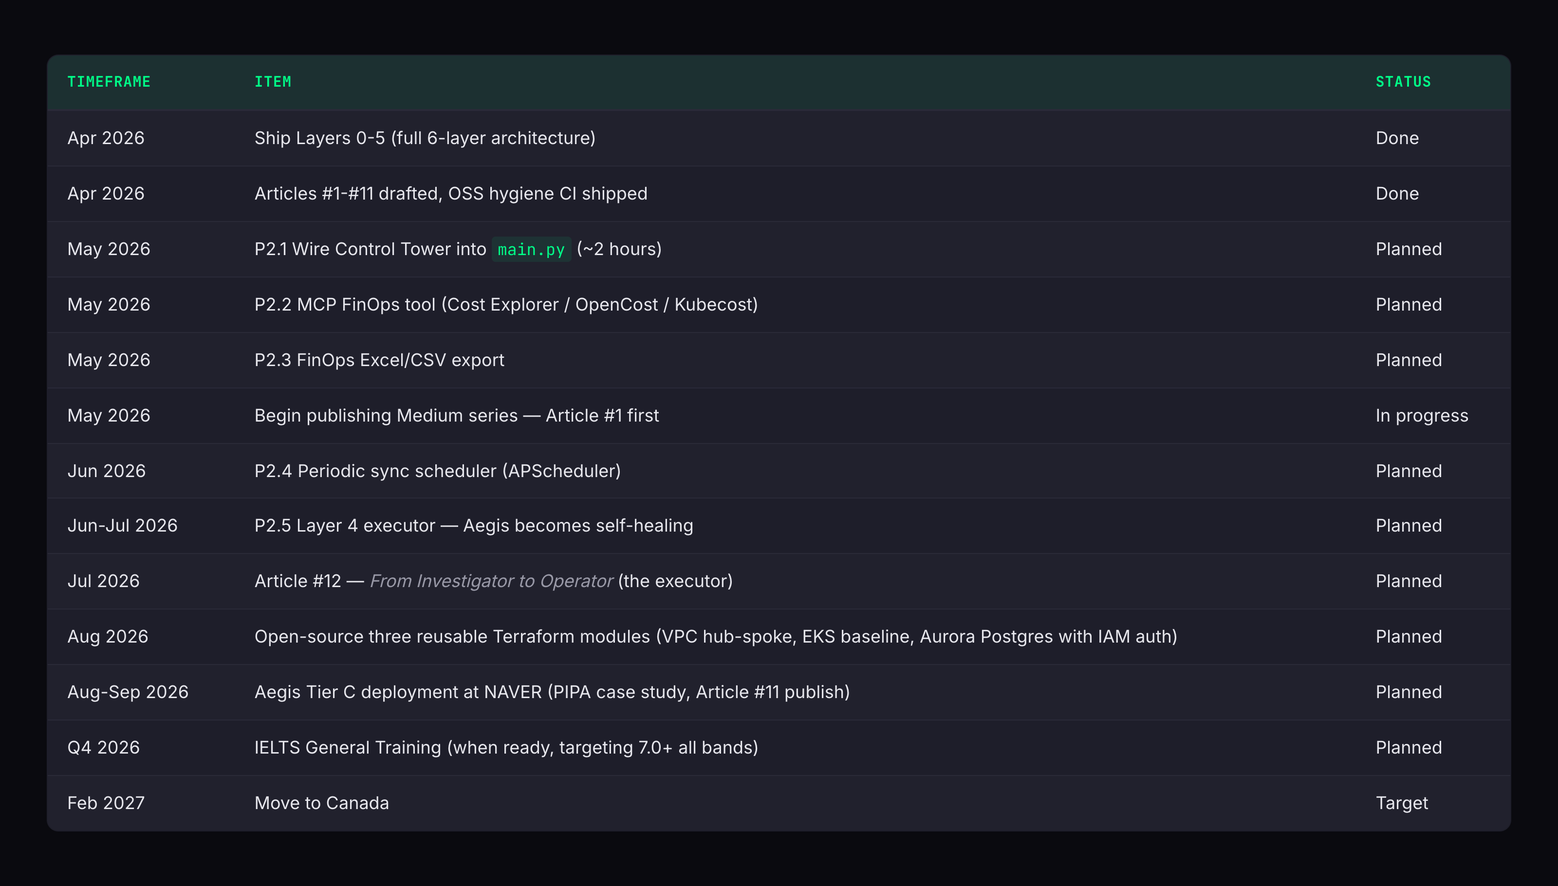
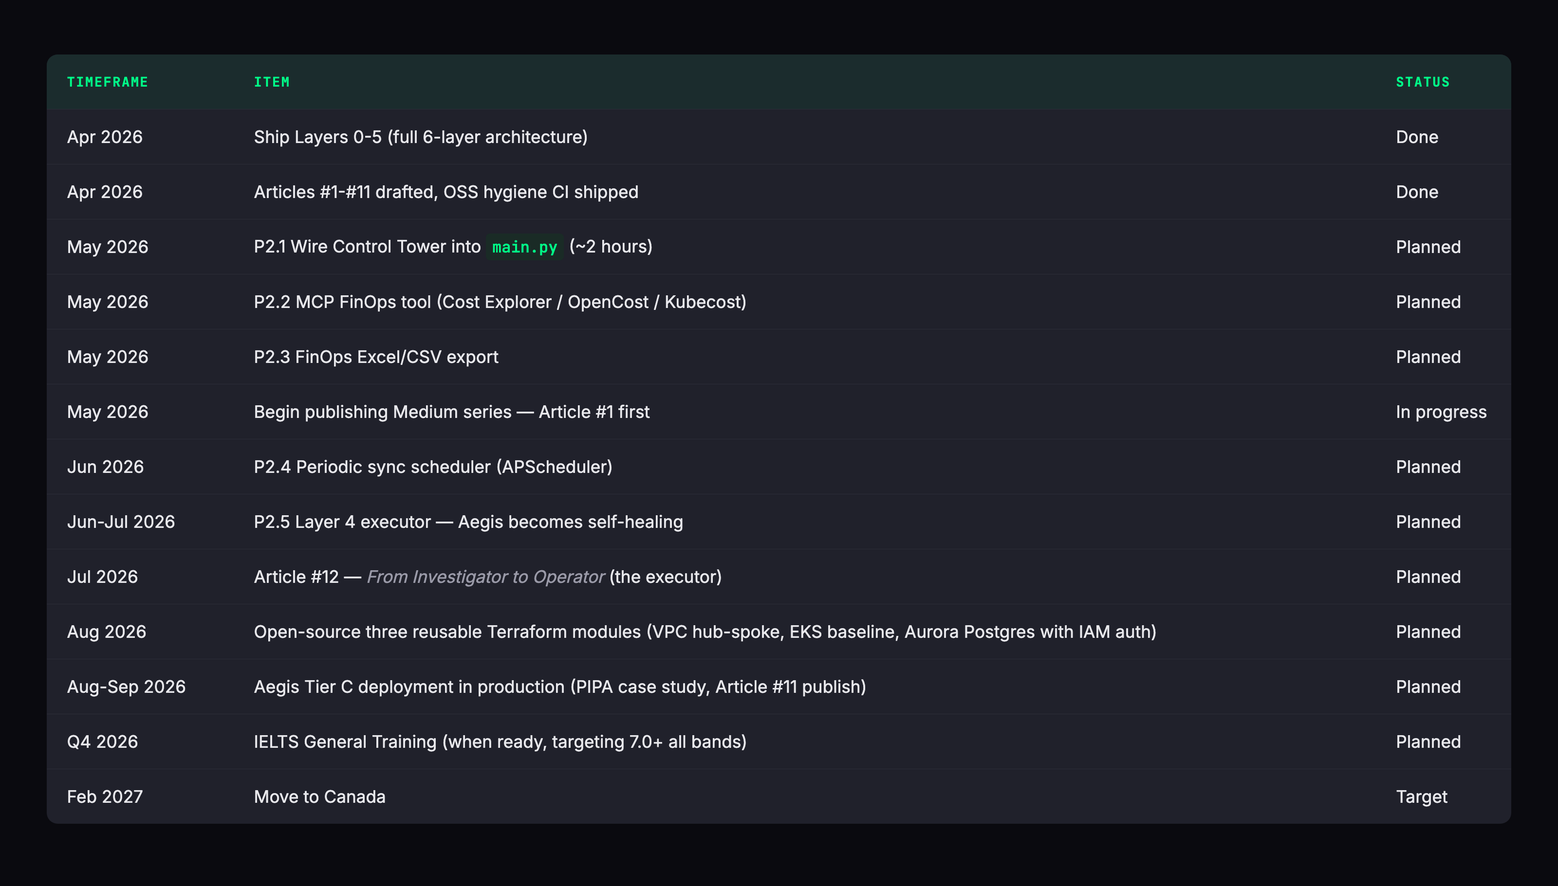
docs: remove employer identifiers and real account IDs from articles and docs (#5)

diff --git a/articles/08-open-sourcing-capstone/article.html b/articles/08-open-sourcing-capstone/article.html
@@ -247,7 +247,7 @@
 
 <p>The other seven articles in this series are technical. This one is not.</p>
 
-<p>I'm an SRE at acme-corp, a subsidiary of a large tech company, working out of Seoul. Before acme-corp I spent three years at a large e-commerce company on cloud platforms and SRE. Before that, acme-it IT&amp;E on platform and cloud. Before that, acme-retail Shopping on backend and cloud. I studied computer and information systems security at Tongmyong University, spent three years in the Republic of Korea military, and finished a second B.Eng in computer science at Kumoh National Institute.</p>
+<p>I'm an SRE working out of Seoul. Before my current job I spent three years on cloud platforms and SRE at a large e-commerce company. Before that, a short stint on platform and cloud at an IT services firm, and before that, backend and cloud work at a retailer. I studied computer and information systems security at Tongmyong University, spent three years in the Republic of Korea military, and finished a second B.Eng in computer science at Kumoh National Institute.</p>
 
 
 
@@ -264,25 +264,25 @@
 timeline
     title June Gu — Engineering Timeline
     2018-2021 : Republic of Korea : Military service (mandatory)
-    2021-2022 : acme-retail Shopping    : Spring Cloud Gateway : OAuth2 + AWS Cognito : Resilience4j circuit breakers
-    2022      : acme-it IT&E      : Monolith to microservices : 300% throughput : Redis token blacklist : Blue-green on CodePipeline
-    2022-2025 : a large e-commerce company (NYSE CPNG) : 1M+ daily txns on ECS/Lambda : 10K updates/sec Kafka + Redis Streams : 60% MTTD reduction : Multi-region Terraform
-    2026-now  : acme-corp (a large tech company) : Multi-account EKS : ArgoCD ApplicationSets : SigNoz observability : 49 Postgres mid-migration PG 13 to 16
+    2021-2022 : Retail backend    : Spring Cloud Gateway : OAuth2 + AWS Cognito : Resilience4j circuit breakers
+    2022      : IT services       : Monolith to microservices : 300% throughput : Redis token blacklist : Blue-green on CodePipeline
+    2022-2025 : E-commerce platform : 1M+ daily txns on ECS/Lambda : 10K updates/sec Kafka + Redis Streams : 60% MTTD reduction : Multi-region Terraform
+    2026-now  : Current SRE role  : Multi-account EKS : ArgoCD ApplicationSets : SigNoz observability : 49 Postgres mid-migration PG 13 to 16
 </div>
 
-<h3>acme-retail Shopping — Backend + Cloud (Mar 2021 to Mar 2022)</h3>
+<h3>Retail — Backend + Cloud (Mar 2021 to Mar 2022)</h3>
 
 <p>First real engineering job out of university. The team was migrating from a monolith to Spring Cloud Gateway microservices with OAuth2 and AWS Cognito for RBAC. My contributions were small but concrete: helped wire Resilience4j Circuit Breaker and Bulkhead patterns into the gateway, added CloudWatch and ELK dashboards so we could actually see what was happening. The lesson I took away was that observability is not a feature you add later. If you ship a service without logs and metrics, you have shipped a black box.</p>
 
-<h3>acme-it IT&amp;E — Platform + Cloud (Apr 2022 to Sep 2022)</h3>
+<h3>IT services — Platform + Cloud (Apr 2022 to Sep 2022)</h3>
 
 <p>Short stint, big impact. We had an inherited monolith and a sprint budget to split it. I led a chunk of the monolith-to-microservices migration, which netted roughly a 300% throughput increase once contention on a shared database connection pool and session store went away. The interesting technical bit was a Redis-backed JWT blacklist — O(1) revocation lookups — which let us log users out globally during a credential rotation without bouncing pods. I also packaged some of our reusable DevOps scaffolding into shared libraries, cutting duplicated CI/CD boilerplate by about 30%.</p>
 
 <blockquote><p><strong>Lesson I keep returning to: the most impactful platform work is the work that removes the need for other engineers to think about platform.</strong></p></blockquote>
 
-<h3>a large e-commerce company — Cloud Platforms &amp; SRE (Oct 2022 to Nov 2025)</h3>
+<h3>Large-scale e-commerce — Cloud Platforms &amp; SRE (Oct 2022 to Nov 2025)</h3>
 
-<p>a large e-commerce company is the "Amazon of Korea" — NYSE-listed, ~$30B revenue, the dominant domestic e-commerce platform. I spent three years on teams responsible for the cloud platforms underneath production commerce.</p>
+<p>This was a big e-commerce company with real production scale. I spent three years on teams responsible for the cloud platforms underneath production commerce.</p>
 
 <p>The numbers that matter:</p>
 
@@ -294,11 +294,11 @@ timeline
   <li><strong>Multi-region Terraform</strong> with GitHub Actions and AWS CodeDeploy as the deployment substrate</li>
 </ul>
 
-<p>a large e-commerce company is where I learned that scale is not a number, it is a discipline. A single badly-written cron job can take down a region. A single <code>terraform apply</code> without a plan review can delete an environment. Every control you build has to assume the worst version of yourself will eventually operate it at 3 AM.</p>
+<p>That job is where I learned that scale is not a number, it is a discipline. A single badly-written cron job can take down a region. A single <code>terraform apply</code> without a plan review can delete an environment. Every control you build has to assume the worst version of yourself will eventually operate it at 3 AM.</p>
 
-<h3>my employer — SRE (Jan 2026 to now)</h3>
+<h3>Current role — SRE (Jan 2026 to now)</h3>
 
-<p>acme-corp is a subsidiary of a large tech company, Korea's largest internet company — a large tech company is often called "the Google of Korea." a large tech company acquired acme-corp in 2024 and we have been systematically modernizing the stack ever since.</p>
+<p>My current team runs a production platform that's in the middle of a steady stack modernization.</p>
 
 <p>What I work with day-to-day:</p>
 
@@ -311,7 +311,7 @@ timeline
   <li><strong>Spring Boot microservices</strong> on the application side (gateway, auth, user, SSE, admin, integration) with a React + Vite + Zustand frontend</li>
 </ul>
 
-<p>The work is real SRE: error budgets, on-call rotation, post-mortems, capacity planning, platform toil reduction. Everything I write about in the other seven articles of this series is anchored in systems I touch every day at acme-corp.</p>
+<p>The work is real SRE: error budgets, on-call rotation, post-mortems, capacity planning, platform toil reduction. Everything I write about in the other seven articles of this series is anchored in systems I touch every day at work.</p>
 
 <h2>The gap that Aegis fills</h2>
 
@@ -325,8 +325,8 @@ flowchart LR
     E[Offer]
 
     A --> B
-    B -->|never heard of a large e-commerce company| F[Pass]
-    B -->|what is acme-corp| F
+    B -->|never heard of these companies| F[Pass]
+    B -->|cannot map the titles| F
     B -->|5 years SRE + OSS proof| C
     C --> D --> E
 </div>

diff --git a/articles/06-monday-patterns/article.html b/articles/06-monday-patterns/article.html
@@ -128,18 +128,18 @@
 
 <h1>We Found That 80% of Our Incidents Happen on Monday 9 AM</h1>
 <p class="subtitle">How 6 months of SigNoz data exposed a predictable incident pattern — and how we turned pre-positioning into ~$3K/month in savings</p>
-<p class="byline">By June Gu — SRE at my employer, ex-e-commerce. Building <a href="https://github.com/JIUNG9/aegis">Aegis</a>, an open-source AI-Native DevSecOps Command Center.</p>
+<p class="byline">By June Gu — Site Reliability Engineer. Building <a href="https://github.com/JIUNG9/aegis">Aegis</a>, an open-source AI-Native DevSecOps Command Center.</p>
 
 <hr />
 
 <h2>The hook</h2>
 <p>We looked at 6 months of incident data. <strong>80% of them clustered on Monday 9-11 AM KST.</strong></p>
 <p>It wasn't random. It wasn't bad luck. It wasn't the "Monday curse" that every SRE team jokes about. It was <strong>predictable</strong>, <strong>measurable</strong>, and — as it turns out — <strong>preventable</strong> if you stop treating incidents as independent events and start treating them as a time series.</p>
-<p>This is the story of how I spent a weekend querying our SigNoz backend, plotted incidents by hour-of-week, and realized that our on-call rotation wasn't being tested by entropy. It was being tested by a cron job.</p>
+<p>This is the story of how I spent a weekend querying our SigNoz backend, charted incidents by hour-of-week, and realized that our on-call rotation wasn't being tested by entropy. It was being tested by a cron job.</p>
 <blockquote>"If your incidents cluster, they're not incidents. They're a schedule nobody wrote down."</blockquote>
 
 <h2>Part 1: The informal observation</h2>
-<p>At my employer, I run SRE across 5 AWS accounts in a hub-spoke topology. Roughly 49 PostgreSQL instances, EKS 1.33 across three spoke accounts, SigNoz as the observability backend, ArgoCD for GitOps. Standard big-enough-to-hurt stack.</p>
+<p>At my day job, I run SRE across 5 AWS accounts in a hub-spoke topology. Roughly 49 PostgreSQL instances, EKS 1.33 across three spoke accounts, SigNoz as the observability backend, ArgoCD for GitOps. Standard big-enough-to-hurt stack.</p>
 <p>Every SRE team has that moment where someone says: "Why does stuff always break on Monday?" For us it was in a weekly sync around six months in. Two of us had been on-call back-to-back, and we'd both been paged at exactly the same time on Monday morning — 9:17 AM in one case, 9:42 AM in the other.</p>
 <p>We laughed. Then someone muttered, "Wait, was that actually Monday for both?"</p>
 <p>I opened our Slack channel for alerts and scrolled. The pattern was immediate — visually, by eyeball, I could see clusters of red notifications at the top-left of each weekly block. I took a screenshot. I sent it to the team. We agreed: "Let's prove it or debunk it."</p>
@@ -347,7 +347,7 @@ spec:
 
 <h3>6.3 Structural fixes</h3>
 <p>Some patterns aren't fixable with pre-positioning. Pattern B (batch job write amplification) is structural — the materialized views are genuinely expensive. The analyzer's output for Pattern B becomes a <strong>Jira ticket</strong>, not an action. "Here's a recurring cost hotspot. Consider splitting or re-scheduling."</p>
-<p>At a large e-commerce company, handling 1M+ daily commerce transactions, we learned this the hard way: not every recurring problem should be automated away. Some of them are telling you that your architecture needs a redesign, and the worst thing you can do is paper over the signal.</p>
+<p>At a previous job, handling 1M+ daily commerce transactions, we learned this the hard way: not every recurring problem should be automated away. Some of them are telling you that your architecture needs a redesign, and the worst thing you can do is paper over the signal.</p>
 
 <h2>Part 7: Cost savings from pattern-driven scaling</h2>
 <table>

diff --git a/articles/09-pii-proxy-for-claude/article.html b/articles/09-pii-proxy-for-claude/article.html
@@ -201,7 +201,7 @@ Content-Type: application/json
   "system": "You are an SRE analyst...",
   "messages": [
     {"role": "user", "content": "Investigate this alert.\n\n2026-04-18 09:13:42 ERROR
-      user=kim.jiho@example.com ip=203.0.113.42 host=prod-db-01.example.com
+      user=kim.jiho@acme-corp.example ip=203.0.113.42 host=prod-db-01.example.internal
       db=acme_orders_prod msg=\"failed login after 5 attempts\""}
   ]
 }</code></pre>
@@ -259,7 +259,7 @@ flowchart LR
 
 <ol>
 <li><strong>Detector</strong> — scans every outbound message for PII and secrets. Regex for the obvious stuff, optionally Microsoft Presidio for the harder stuff (names, organization-specific patterns).</li>
-<li><strong>Mapper</strong> — deterministic placeholder generator. <code>kim.jiho@example.com</code> becomes <code>&lt;USER_1&gt;</code>. Same input in the same request gets the same placeholder, so downstream reasoning still works. Different requests get independent mappings, so nothing leaks across.</li>
+<li><strong>Mapper</strong> — deterministic placeholder generator. <code>kim.jiho@acme-corp.example</code> becomes <code>&lt;USER_1&gt;</code>. Same input in the same request gets the same placeholder, so downstream reasoning still works. Different requests get independent mappings, so nothing leaks across.</li>
 <li><strong>Proxy</strong> — a thin wrapper around <code>anthropic.Anthropic</code> that runs detector + mapper before <code>messages.create(...)</code> and reverses the substitutions on the response.</li>
 <li><strong>Config</strong> — Pydantic settings. On by default, <code>enabled=False</code> gives you a passthrough.</li>
 </ol>
@@ -296,7 +296,7 @@ PATTERNS = {
 <p>Two rules:</p>
 
 <ol>
-<li><strong>Deterministic within a request.</strong> If <code>kim.jiho@example.com</code> appears three times in the same prompt, all three become <code>&lt;USER_1&gt;</code>. Claude can still reason about "this user did X and then Y and then Z" because the placeholder is stable.</li>
+<li><strong>Deterministic within a request.</strong> If <code>kim.jiho@acme-corp.example</code> appears three times in the same prompt, all three become <code>&lt;USER_1&gt;</code>. Claude can still reason about "this user did X and then Y and then Z" because the placeholder is stable.</li>
 <li><strong>Independent across requests.</strong> If two different users investigate two different incidents, their <code>&lt;USER_1&gt;</code>s refer to different people. This is enforced by scoping the map to a per-request context, not a singleton.</li>
 </ol>
 

diff --git a/articles/04-automation-ladder/article.html b/articles/04-automation-ladder/article.html
@@ -184,7 +184,7 @@
 
 <p>I'm building <a href="https://github.com/JIUNG9/aegis">Aegis</a>, an AI-native DevSecOps command center, on nights and weekends. The whole point is that the AI investigates incidents, proposes fixes, and — eventually — executes low-risk ones autonomously. But "eventually" is the key word.</p>
 
-<p>Here's the trust-building ladder I designed into Aegis v4.0, and the slow arc I used on my own team at my employer to get from "AI watches only" to "AI acts on low-risk."</p>
+<p>Here's the trust-building ladder I designed into Aegis v4.0, and the slow arc I used on my own team at work to get from "AI watches only" to "AI acts on low-risk."</p>
 
 <blockquote><strong>The rule:</strong> An AI agent should earn each rung of autonomy. Skipping rungs is how you end up in a postmortem.</blockquote>
 
@@ -233,7 +233,7 @@
 <h3>Stage 2: RECOMMEND</h3>
 <p><strong>What it does:</strong> AI's investigation and proposed fixes appear in the Slack channel and on the incident dashboard. But the "execute" buttons are disabled. Humans read the recommendation, decide on their own, and act.</p>
 <p><strong>Why this stage matters:</strong> This is where the team starts <em>using</em> the AI as an augmentation. The on-call engineer gets paged, opens Slack, and sees "Aegis analysis: this looks like the connection-pool exhaustion pattern from three weeks ago; recommend rolling restart of <code>auth-service</code>; rollback plan attached." The engineer doesn't have to trust the AI — they can read the reasoning, check the metrics it cited, and decide.</p>
-<p>You'd be surprised how long this stage should last. I kept Aegis in Stage 2 for a full month at acme-corp before considering Stage 3. The first two weeks were mostly me reading recommendations during ambient hours and grading them. By week four, the team was asking "where's the Aegis summary?" when they got paged before looking at Grafana.</p>
+<p>You'd be surprised how long this stage should last. I kept Aegis in Stage 2 for a full month on my team before considering Stage 3. The first two weeks were mostly me reading recommendations during ambient hours and grading them. By week four, the team was asking "where's the Aegis summary?" when they got paged before looking at Grafana.</p>
 <p><strong>Exit criteria:</strong> Team actively uses the recommendations, and you have data showing the AI's suggestions would have been safe (no "good thing we didn't let it do that" moments).</p>
 
 <h3>Stage 3: LOW-AUTO</h3>

diff --git a/articles/07-multi-account-guardrails/article.html b/articles/07-multi-account-guardrails/article.html
@@ -55,14 +55,14 @@
 
 <h1>Production Guardrails for AI Agents — The Risk Tier System Across 4 AWS Accounts</h1>
 <p class="subtitle">How to let an AI act in a hub-spoke AWS topology without letting it torch production</p>
-<p class="byline">By June Gu — SRE at my employer, ex-e-commerce. Building <a href="https://github.com/JIUNG9/aegis">Aegis</a>, an open-source AI-Native DevSecOps Command Center.</p>
+<p class="byline">By June Gu — Site Reliability Engineer. Building <a href="https://github.com/JIUNG9/aegis">Aegis</a>, an open-source AI-Native DevSecOps Command Center.</p>
 
 <hr />
 
 <h2>The hook</h2>
 <p><strong>AI agents without guardrails are a production incident waiting to happen.</strong></p>
 <p>Especially when you have 4 AWS accounts in a hub-spoke topology, Transit Gateway between them, and an AI that can — if you let it — kubectl-scale, s3-copy, or modify an IAM policy that's trusted by every account downstream.</p>
-<p>I work in a setup like that. At my employer, our production AWS footprint spans several accounts wired through Transit Gateway. Before we let Aegis do anything autonomously, we had to answer a question every AI-in-production team eventually faces:</p>
+<p>I work in a setup like that. At my day job, our production AWS footprint spans several accounts wired through Transit Gateway. Before we let Aegis do anything autonomously, we had to answer a question every AI-in-production team eventually faces:</p>
 <blockquote>"Which actions can the AI take on its own? Which require a human? Which should never be automated, ever?"</blockquote>
 <p>This article is my answer — the <strong>risk tier system</strong> that Aegis Layer 4 enforces, and why we designed it this way. It's what Aegis will ship as Layer 4 (Guardrails), coming in the v4.0 roadmap. Code references below point at planned files; the design is locked, the code is landing.</p>
 <blockquote>"The speed of an AI agent is its biggest feature and its biggest liability. Guardrails are how you keep the feature and remove the liability."</blockquote>

diff --git a/articles/02-ai-is-lying/article.html b/articles/02-ai-is-lying/article.html
@@ -265,7 +265,7 @@
 <p class="subtitle">How we built a document reconciliation engine that catches stale runbooks before Claude follows them off a cliff.</p>
 
 <div class="byline">
-  <span>By <strong>June Gu</strong> &middot; SRE at acme-corp (a large tech company subsidiary) &middot; ex-e-commerce</span>
+  <span>By <strong>June Gu</strong> &middot; Site Reliability Engineer</span>
   <span class="tag">~12 min read</span>
 </div>
 
@@ -287,7 +287,7 @@
 
 <blockquote><p>The most dangerous documentation is not the wrong kind. It is the wrong kind that an LLM confidently retrieves.</p></blockquote>
 
-<p>This article is about what we built to stop that from happening again — at <a href="https://www.example.com/">my employer</a>, across four AWS accounts, 49 PostgreSQL instances, and a knowledge surface area that spans Confluence, three GitHub repos, Google Docs, and pinned Slack threads older than most of our services.</p>
+<p>This article is about what we built to stop that from happening again — at my day job, across four AWS accounts, 49 PostgreSQL instances, and a knowledge surface area that spans Confluence, three GitHub repos, Google Docs, and pinned Slack threads older than most of our services.</p>
 
 
 <h2>The scattered-docs reality</h2>
@@ -489,7 +489,7 @@ DEFAULT_RULES: dict[str, StalenessRule] = {
     ),
 }</code></pre>
 
-<p>The thresholds are opinions I hold after three years of SRE work at a large e-commerce company and now acme-corp:</p>
+<p>The thresholds are opinions I hold after three years of SRE work at e-commerce scale and the time since at my current job:</p>
 
 <ul>
 <li><strong>Confluence pages go stale fast.</strong> Nobody curates them. 90 days and they need review.</li>

diff --git a/articles/01-karpathy-killed-rag/article.html b/articles/01-karpathy-killed-rag/article.html
@@ -178,7 +178,7 @@ figcaption {
 
 <hr/>
 
-<p>I'm an SRE. Our team runs a multi-account AWS estate in a hub-spoke topology, dozens of PostgreSQL instances mid-migration from PG 13 to 16, and an EKS 1.33 fleet that ArgoCD ApplicationSets deploy into from a single GitOps repo. Before this role I ran a million daily transactions on AWS ECS Fargate at a NYSE-listed commerce platform. This is my on-call rotation. My 3 AM pager. So when I say our AI agent started lying to us, I mean it lied to <em>me</em> at 3 AM, and I wrote this because I don't want it to happen to you.</p>
+<p>I'm an SRE. Our team runs a multi-account AWS estate in a hub-spoke topology, dozens of PostgreSQL instances mid-migration from PG 13 to 16, and an EKS 1.33 fleet that ArgoCD ApplicationSets deploy into from a single GitOps repo. Before this role I ran a million daily transactions on AWS ECS Fargate at a large commerce platform. This is my on-call rotation. My 3 AM pager. So when I say our AI agent started lying to us, I mean it lied to <em>me</em> at 3 AM, and I wrote this because I don't want it to happen to you.</p>
 
 <p>This is the story of how I built a knowledge layer that doesn't rot — based on a pattern Andrej Karpathy sketched in a tweet — and the open-source implementation you can clone tonight.</p>
 

diff --git a/articles/05-claude-mcp-pager/article.html b/articles/05-claude-mcp-pager/article.html
@@ -215,7 +215,7 @@
 
 <p>Here's what's broken about traditional runbooks:</p>
 <ol>
-  <li><strong>They're too long.</strong> A good auth-service runbook at my employer is 12 pages of markdown. At 3 AM, I'm not reading 12 pages. I'm scrolling past 11 of them to find the one paragraph that applies.</li>
+  <li><strong>They're too long.</strong> A good auth-service runbook at my day job is 12 pages of markdown. At 3 AM, I'm not reading 12 pages. I'm scrolling past 11 of them to find the one paragraph that applies.</li>
   <li><strong>They assume you remember context.</strong> "Check the usual DB metrics." Which usual metrics? Which DB? The version I set up in Terraform six months ago, or the one from after the PG 13→16 migration?</li>
   <li><strong>They don't cross-reference recent incidents.</strong> The last three times this exact alert fired, the cause was the same. The runbook doesn't know that. A human had to notice the pattern.</li>
   <li><strong>They're stale.</strong> The runbook was last touched nine months ago. The service has deployed 40 times since then.</li>

diff --git a/articles/03-self-maintaining-kb/article.html b/articles/03-self-maintaining-kb/article.html
@@ -249,7 +249,7 @@
 <p class="subtitle">Runbooks that update themselves when incidents resolve. A vault that archives its own dead pages. A public portfolio that never drifts from what I actually operate.</p>
 
 <div class="byline">
-  <span>By <strong>June Gu</strong> &middot; SRE at acme-corp (a large tech company subsidiary) &middot; ex-e-commerce</span>
+  <span>By <strong>June Gu</strong> &middot; Site Reliability Engineer</span>
   <span class="tag">~11 min read</span>
 </div>
 
@@ -264,7 +264,7 @@
 
 <h2>Why runbooks rot</h2>
 
-<p>Let me describe the pattern at almost every company I've worked at, including a large e-commerce company, acme-it IT&amp;E, and my employer.</p>
+<p>Let me describe the pattern at almost every company I've worked at.</p>
 
 <ol>
 <li>An incident happens.</li>

diff --git a/apps/web/src/app/token-preview/page.tsx b/apps/web/src/app/token-preview/page.tsx
@@ -84,7 +84,7 @@ function OptionA() {
           </div>
           <div className="flex items-center justify-between rounded-lg px-4 py-3" style={{ background: t.card, border: `1px solid ${t.border}` }}>
             <div>
-              <div style={{ color: t.text, fontSize: 14 }}>Investigate incident INC-042</div>
+              <div style={{ color: t.text, fontSize: 14 }}>Investigate incident INC-4242</div>
               <div style={{ color: t.muted, fontSize: 12 }}>~15K tokens · {modes[mode].model}</div>
             </div>
             <div className="flex items-center gap-3">

diff --git a/articles/11-pipa-case-study/article.html b/articles/11-pipa-case-study/article.html
@@ -285,7 +285,7 @@ llm_router:
   provider: hybrid            # regex + Presidio
   mapping_ttl_seconds: 3600
   custom_patterns:
-    - '\bprod-[a-z0-9-]+\.acme-corp\.internal\b'
+    - '\bprod-[a-z0-9-]+\.example\.internal\b'
     - '\bacme_[a-z]+_prod\b'</code></pre>
 
 <p>Article #9 in this series has the full walkthrough of what the proxy does and doesn't catch. For a Tier C deployment, it is treated as a <em>secondary</em> defense — the primary defense is that sensitive data should never reach the cloud backend at all. The proxy catches the times that assumption fails.</p>

diff --git a/docs/aegis-v4-plan.html b/docs/aegis-v4-plan.html
@@ -162,8 +162,8 @@ wiki/
 │   ├── slo-error-budgets.md ← Synthesized from multiple sources
 │   └── hub-spoke-architecture.md
 ├── incidents/
-│   ├── INC-042-db-pool.md   ← From SigNoz + post-mortem
-│   └── INC-067-auth-spike.md
+│   ├── db-pool-exhaustion.md ← From SigNoz + post-mortem
+│   └── auth-latency-spike.md
 ├── runbooks/
 │   ├── runbook-auth-service.md
 │   └── runbook-redis-failover.md
